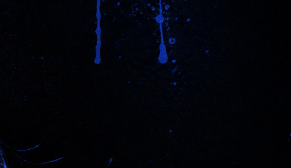
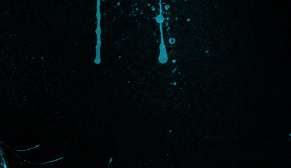
Set accent to #24E0FF
Flips --on-accent back to a near-black ink: white text scores only
1.59:1 on a color this bright, while the dark ink clears 11.8:1.

diff --git a/src/app/globals.css b/src/app/globals.css
@@ -7,10 +7,10 @@
   --bg-charcoal: #222222;
   --bg-cream: #F3F0EA;
 
-  --accent: #1F51FF;
-  --accent-hover: #4A74FF;
-  --gold: #6B8CFF;
-  --on-accent: #FFFFFF;
+  --accent: #24E0FF;
+  --accent-hover: #6BEBFF;
+  --gold: #24E0FF;
+  --on-accent: #04131A;
 
   --text-primary: #FFFFFF;
   --text-body: #D8D8D8;
